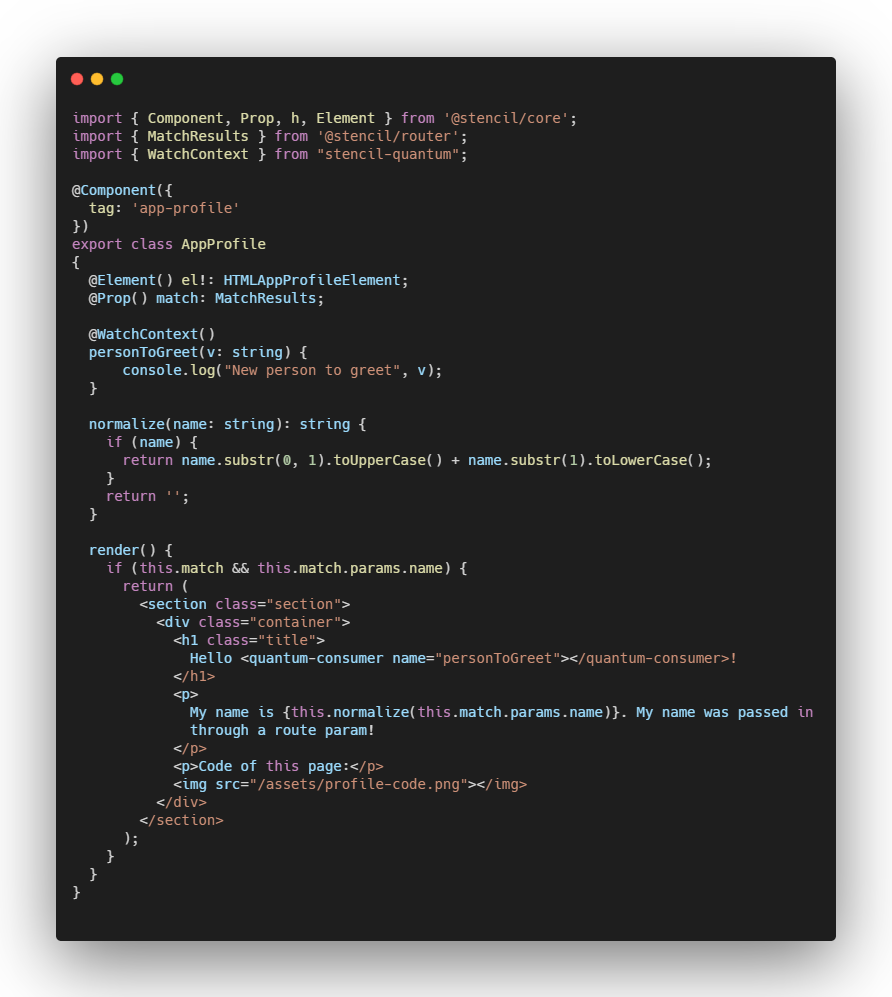
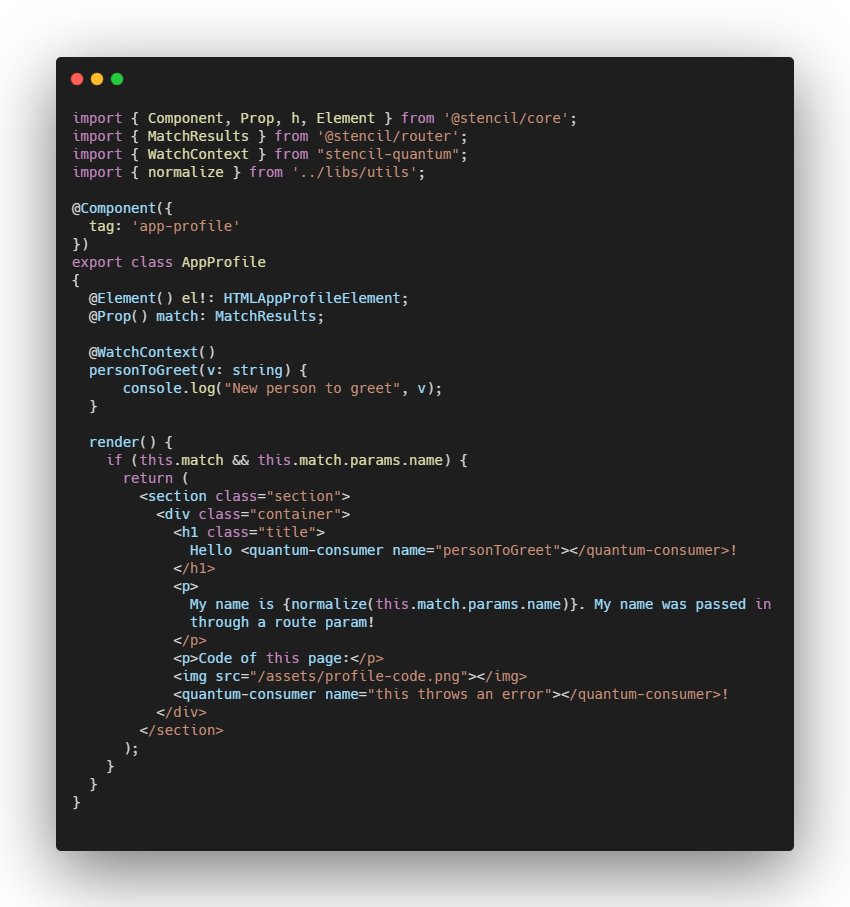
✨🐛 Improve error handling

diff --git a/packages/quantum/src/libs/error.ts b/packages/quantum/src/libs/error.ts
@@ -1,0 +1,84 @@
+
+import { Provider } from "./provider";
+import { HTMLStencilElement } from "@stencil/core/internal";
+import { ComponentPrototype, hookComponent, getEl } from "./utils";
+
+const $error = Symbol.for("stencil-quantum-error");
+
+export class QuantumError extends Error 
+{
+    constructor(err: Error|string, public target?: HTMLStencilElement)
+    {
+        super(err instanceof Error ? err.message : err);
+        if (err instanceof Error) Object.assign(this, err);
+    }
+}
+
+export function throwQuantum(el: HTMLStencilElement, error: string|Error)
+{
+    const err = new QuantumError(error, el);
+    console.error(err);
+    try {
+        const provider = Provider.find<QuantumError>(el, $error);
+        provider.provide(err);
+    } catch(e) {
+        throw err;
+    }
+}
+
+export function ContextError() 
+{ 
+    return function (prototype: ComponentPrototype, propertyName: string)
+    {
+        const provider = new Provider($error, prototype[propertyName]);
+
+        hookComponent(prototype, "componentWillLoad", obj => {
+            const el = getEl(obj);
+            try {
+                provider.attach(el);
+                provider.hook(el);
+            } catch(err) {
+                throwQuantum(el, err);
+            }
+        });
+
+        if (delete prototype[propertyName]) 
+        {
+            Object.defineProperty(prototype, propertyName, 
+            {
+                get: provider.retrieve,
+                set: provider.provide,
+                enumerable: true,
+                configurable: true
+            });
+        }
+    } 
+}
+
+export function Catch() 
+{ 
+    return function (prototype: ComponentPrototype, propertyName: string, propertyDesciptor: PropertyDescriptor): PropertyDescriptor
+    {
+        const method = propertyDesciptor.value;
+        const provider = new Provider($error, prototype[propertyName]);
+
+        hookComponent(prototype, "componentWillLoad", obj => {
+            const el = getEl(obj);
+
+            try {
+                provider.attach(el);
+                provider.listen(v => { 
+                    try {
+                        return method.apply(obj, [v]);
+                    } catch(err) {
+                        throwQuantum(el, err);
+                    }
+                });
+            } catch(err) {
+                throwQuantum(el, err);
+            }
+        });
+
+        return propertyDesciptor;
+    } 
+}

diff --git a/packages/demo/src/components/app-profile.tsx b/packages/demo/src/components/app-profile.tsx
@@ -1,6 +1,7 @@
 import { Component, Prop, h, Element } from '@stencil/core';
 import { MatchResults } from '@stencil/router';
 import { WatchContext } from "stencil-quantum";
+import { normalize } from '../libs/utils';
 
 @Component({
   tag: 'app-profile'
@@ -15,13 +16,6 @@ export class AppProfile
       console.log("New person to greet", v);
   }
 
-  normalize(name: string): string {
-    if (name) {
-      return name.substr(0, 1).toUpperCase() + name.substr(1).toLowerCase();
-    }
-    return '';
-  }
-
   render() {
     if (this.match && this.match.params.name) {
       return (
@@ -31,11 +25,12 @@ export class AppProfile
               Hello <quantum-consumer name="personToGreet"></quantum-consumer>!
             </h1>
             <p>
-              My name is {this.normalize(this.match.params.name)}. My name was passed in
+              My name is {normalize(this.match.params.name)}. My name was passed in
               through a route param!
             </p>
             <p>Code of this page:</p>
             <img src="/assets/profile-code.png"></img>
+            <quantum-consumer name="this throws an error"></quantum-consumer>!
           </div>
         </section>
       );

diff --git a/packages/quantum/src/libs/utils.ts b/packages/quantum/src/libs/utils.ts
@@ -1,30 +1,5 @@
 import { HTMLStencilElement } from "@stencil/core/internal";
-import { Provider } from "./provider";
-
-//#region Error Stuff
-
-export class QuantumError extends Error 
-{
-    constructor(err: Error|string, public target?: HTMLStencilElement)
-    {
-        super(err instanceof Error ? err.message : err);
-        if (err instanceof Error) Object.assign(this, err);
-    }
-}
-
-export function throwQuantum(el: HTMLStencilElement, error: string|Error)
-{
-    const err = new QuantumError(error, el);
-    console.error(err);
-    try {
-        const provider = Provider.find<QuantumError>(el, "quantum-error");
-        provider.provide(err);
-    } catch(e) {
-        throw err;
-    }
-}
-
-//#endregion
+import { QuantumError } from "./error";
 
 //#region Logging
 
@@ -34,11 +9,6 @@ const _log = (...args: any[]) => (<any>_log).debug && console.log(...args);
 export const log = _log as typeof _log & {debug: boolean};
 
 export const nop = () => {};
-
-//#endregion
-
-//#region Provider Dom Stuff
-
 
 //#endregion
 

diff --git a/packages/demo/src/components/app-root.tsx b/packages/demo/src/components/app-root.tsx
@@ -1,5 +1,5 @@
 import { Component, h, Element, Listen } from '@stencil/core';
-import { Provide, log } from 'stencil-quantum';
+import { Provide, log, ContextError, QuantumError } from 'stencil-quantum';
 
 log.debug = true;
 
@@ -16,6 +16,8 @@ export class AppRoot
 	@Provide() personToGreet = "Your Name";
 	hasCustomName = false;
 	demoNameIndex = -1;
+
+	@ContextError() error!: QuantumError;
 
 	@Listen("changeName")
 	onChangeName({detail}: {detail: string})
@@ -43,6 +45,16 @@ export class AppRoot
 		return (
 			<div>
 				<app-nav></app-nav>
+				{ !this.error ? "" :
+					<section class="section">
+						<div class="container">
+							<div class="notification is-danger">
+								<button class="delete" onClick={() => this.error = undefined}></button>
+								{this.error?.message}
+							</div>
+						</div>
+					</section>
+				}
 				<main>
 					<stencil-router>
 						<stencil-route-switch scrollTopOffset={0}>

diff --git a/packages/quantum/src/components/quantum-consumer/quantum-consumer.tsx b/packages/quantum/src/components/quantum-consumer/quantum-consumer.tsx
@@ -1,5 +1,6 @@
 import { Component, Element, Prop, State } from '@stencil/core';
 import { Provider } from '../../libs/provider';
+import { throwQuantum } from '../../libs';
 
 @Component({
     tag: 'quantum-consumer'
@@ -14,8 +15,18 @@ export class QuantumConsumer {
 
     async componentWillLoad()
     {
-        const provider = Provider.find(this.el, this.name);
-        provider.listen(val => this.value = this.mapper(val));
+        try {
+            const provider = Provider.find(this.el, this.name);
+            provider.listen(val => {
+                try {
+                    this.value = this.mapper(val)
+                } catch(err) {
+                    throwQuantum(this.el, err);
+                }
+            });
+        } catch(err) {
+            throwQuantum(this.el, err);
+        }
     }
 
     render() {

diff --git a/packages/quantum/src/libs/context.ts b/packages/quantum/src/libs/context.ts
@@ -1,5 +1,6 @@
 import { Provider } from "./provider";
-import { getEl, hookComponent, ComponentPrototype, throwQuantum } from "./utils";
+import { getEl, hookComponent, ComponentPrototype } from "./utils";
+import { throwQuantum } from "./error";
 
 export function Provide(key?: string|symbol) 
 { 
@@ -85,7 +86,13 @@ export function WatchContext(key?: string)
 
             try {
                 const provider = Provider.find(el, key!);
-                unlisten = provider.listen(v => method.apply(obj, [v]));
+                unlisten = provider.listen(v => { 
+                    try {
+                        return method.apply(obj, [v]);
+                    } catch(err) {
+                        throwQuantum(el, err);
+                    }
+                });
             } catch(err) {}
 
             return () => {

diff --git a/packages/quantum/src/components/quantum-provider/quantum-provider.tsx b/packages/quantum/src/components/quantum-provider/quantum-provider.tsx
@@ -1,5 +1,6 @@
 import { Component, h, Prop, Watch, Element } from '@stencil/core';
 import { Provider } from '../../libs/provider';
+import { throwQuantum } from '../../libs';
 
 @Component({
     tag: 'quantum-provider'
@@ -15,13 +16,21 @@ export class QuantumProvider
 
     componentWillLoad()
     {
-        this.provider = Provider.create(this.el, this.name, this.value);
+        try {
+            this.provider = Provider.create(this.el, this.name, this.value);
+        } catch(err) {
+            throwQuantum(this.el, err);
+        }
     }
 
     @Watch("value")
     onValue(val: any)
     {
-        this.provider.provide(val);
+        try {
+            this.provider.provide(val);
+        } catch(err) {
+            throwQuantum(this.el, err);
+        }
     }
 
     render() {

diff --git a/packages/quantum/src/libs/axios.ts b/packages/quantum/src/libs/axios.ts
@@ -1,7 +1,8 @@
 import { Provider } from "./provider";
-import { getEl, hookComponent, ComponentPrototype, log, throwQuantum } from "./utils";
+import { getEl, hookComponent, ComponentPrototype, log } from "./utils";
 import { HTMLStencilElement } from "@stencil/core/internal";
 import { RestypedBase } from "restyped";
+import { throwQuantum } from "./error";
 
 export interface AxiosResponse<T>
 {

diff --git a/packages/quantum/src/libs/event.ts b/packages/quantum/src/libs/event.ts
@@ -1,6 +1,7 @@
 import { Provider } from "./provider";
-import { getEl, hookComponent, ComponentPrototype, throwQuantum } from "./utils";
+import { getEl, hookComponent, ComponentPrototype } from "./utils";
 import { HTMLStencilElement } from "@stencil/core/internal";
+import { throwQuantum } from "./error";
 
 export interface EventEmitter
 {

diff --git a/packages/quantum/src/libs/provider.ts b/packages/quantum/src/libs/provider.ts
@@ -1,5 +1,6 @@
 import { HTMLStencilElement } from "@stencil/core/internal";
-import { log, QuantumError } from "./utils";
+import { log } from "./utils";
+import { QuantumError } from "./error";
 
 const $providers = Symbol.for("stencil-quantum-providers");
 export type ProvideCallback<T> = (value: T) => void;

diff --git a/packages/quantum/src/index.ts b/packages/quantum/src/index.ts
@@ -1,6 +1,2 @@
-export * from './components';
-export * from "./libs/context";
-export * from "./libs/provider";
-export * from "./libs/utils";
-export * from "./libs/event";
-export * from "./libs/axios";
+export * from "./components";
+export * from "./libs";

diff --git a/packages/demo/src/libs/utils.ts b/packages/demo/src/libs/utils.ts
@@ -1,0 +1,7 @@
+
+  export function normalize(name: string): string {
+    if (name) {
+      return name.substr(0, 1).toUpperCase() + name.substr(1).toLowerCase();
+    }
+    return '';
+  }
